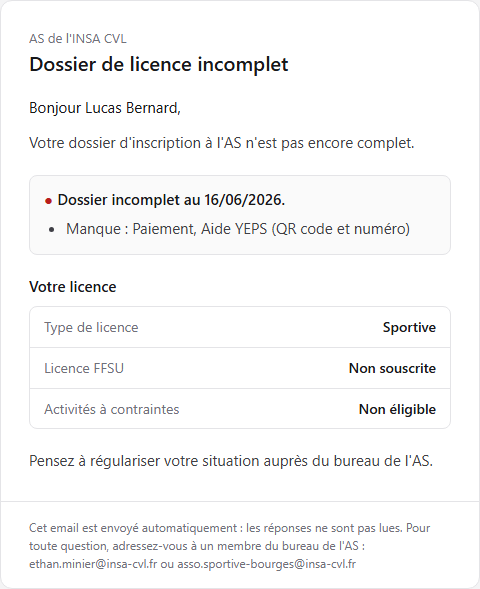
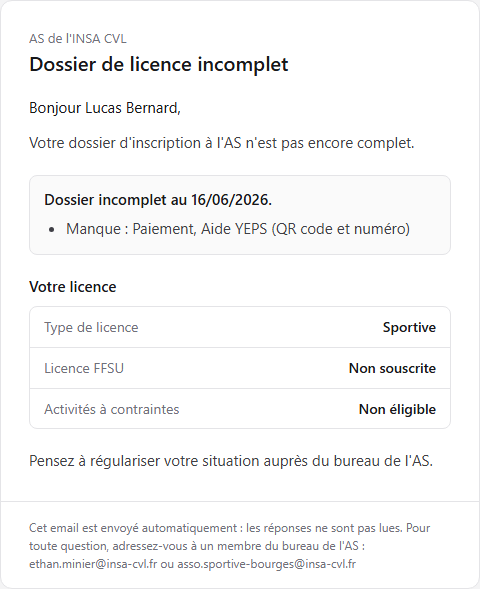
Style: retirer la pastille de couleur des emails

Changed region(s): [[0.0938, 0.3056, 0.5938, 0.3667]]

diff --git a/src/lib/emails.js b/src/lib/emails.js
@@ -1,7 +1,7 @@
 // Contenu des emails envoyés aux adhérents (utilisé par api/send-qr.js).
 // Mise en page en tableaux et styles en ligne : c'est ce que les clients mail
-// (Gmail, Outlook…) affichent de façon fiable. Mêmes couleurs que le site,
-// sans aplat de couleur : la couleur se limite à une pastille de statut.
+// (Gmail, Outlook…) affichent de façon fiable. Mêmes gris que le site, sans
+// couleur de statut : c'est le texte qui dit si le dossier est complet.
 
 const C = {
   fond: '#f4f4f5',
@@ -13,8 +13,6 @@ const C = {
   texte2: '#3f3f46',
   discret: '#71717a',
   accent: '#4b2177',
-  ok: '#15803d',
-  ko: '#b91c1c',
 };
 
 const POLICE = "system-ui,-apple-system,'Segoe UI',Roboto,Helvetica,Arial,sans-serif";
@@ -88,9 +86,8 @@ function salutation(prenom, nom) {
   return `<p style="margin:0 0 12px 0;color:${C.texte};">Bonjour ${esc(prenom)} ${esc(nom)},</p>`;
 }
 
-// Encadré neutre ; seule la pastille indique le statut (vert ou rouge).
+// Encadré neutre, sans couleur de statut.
 function blocStatut(valide, anomalies, date) {
-  const pastille = `<span style="color:${valide ? C.ok : C.ko};">&#9679;</span>&nbsp;`;
   const titre = valide ? 'Dossier complet et à jour.' : `Dossier incomplet au ${esc(date)}.`;
   const liste = valide
     ? ''
@@ -99,7 +96,7 @@ function blocStatut(valide, anomalies, date) {
       .join('')}</ul>`;
 
   return `<div style="margin:0 0 20px 0;padding:12px 14px;background:${C.encadre};border:1px solid ${C.ligne};border-radius:8px;">
-                <p style="margin:0;color:${C.texte};font-weight:600;">${pastille}${titre}</p>
+                <p style="margin:0;color:${C.texte};font-weight:600;">${titre}</p>
                 ${liste}
               </div>`;
 }

diff --git a/src/lib/emails.test.js b/src/lib/emails.test.js
@@ -56,10 +56,14 @@ describe('emailQrCode', () => {
     expect(texte).not.toContain('Paiement non régularisé');
   });
 
-  it('pas d\'aplat de couleur : ni bouton ni encadré sur fond vert, rouge ou violet', () => {
-    const { html } = emailQrCode(incomplet, calculerStatutLicence(incomplet), LIEN, DATE);
-    for (const couleur of ['#4b2177', '#15803d', '#b91c1c', '#f0fdf4', '#fef2f2']) {
-      expect(html).not.toContain(`background:${couleur}`);
+  it('aucune couleur de statut : ni aplat, ni pastille verte ou rouge', () => {
+    for (const adherent of [aJour, incomplet]) {
+      const { html } = emailQrCode(adherent, calculerStatutLicence(adherent), LIEN, DATE);
+      expect(html).not.toContain('background:#4b2177');
+      for (const couleur of ['#15803d', '#b91c1c', '#f0fdf4', '#fef2f2']) {
+        expect(html).not.toContain(couleur);
+      }
+      expect(html).not.toContain('&#9679;');
     }
   });
 
